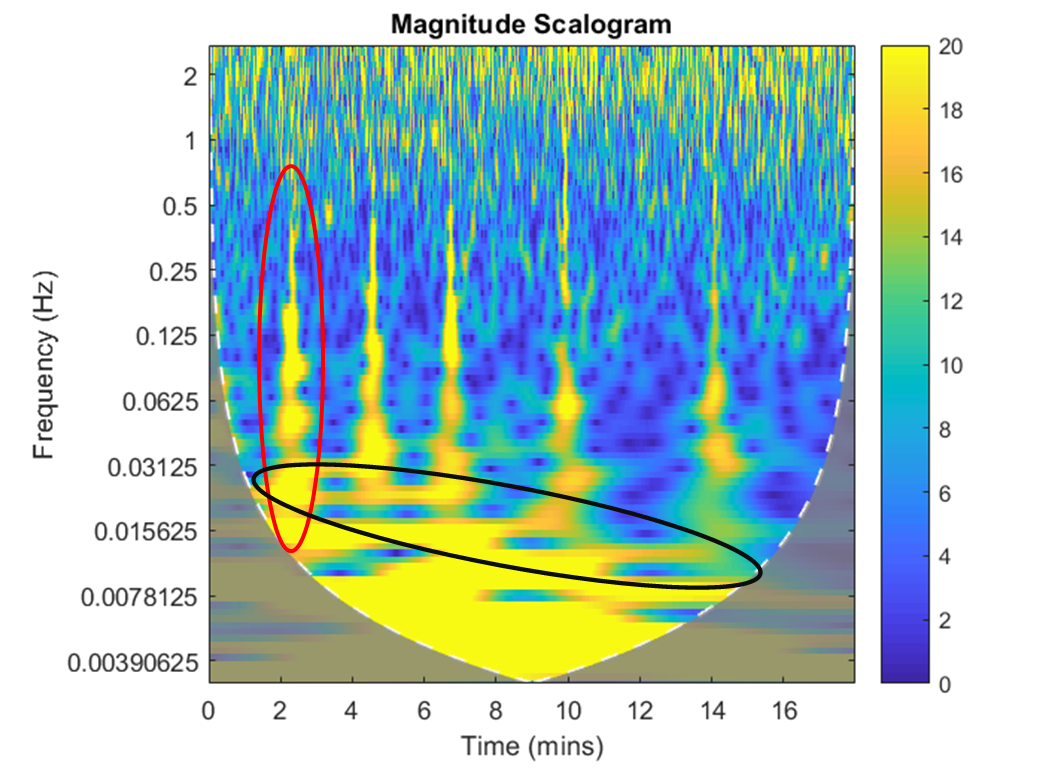
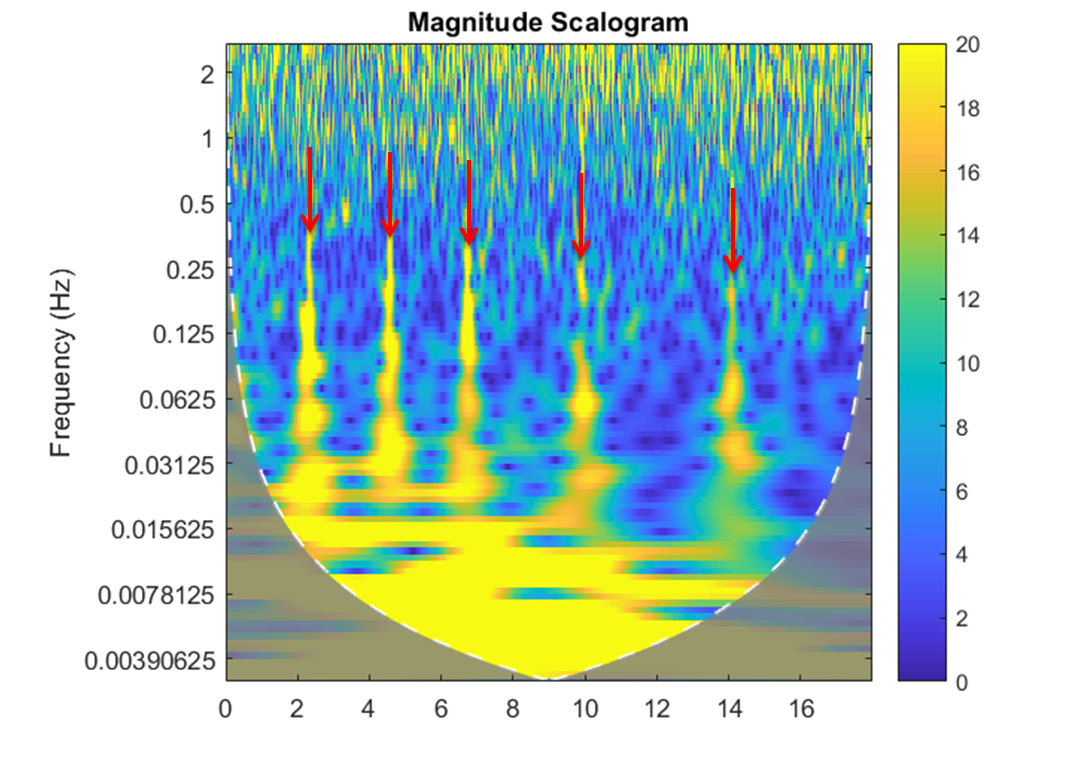
Changes

diff --git a/contents/DataAnalysis/Math.tex b/contents/DataAnalysis/Math.tex
@@ -1,5 +1,5 @@
 \section{Correction method}
-
+\label{sec:correction_method}
 With the knowledge of what might be the source of the artifacts seen in the temperature recording, it is chosen to find a way to compensate and correct the recording.
 Jumps occur in each region of interest at the same time and are shown by a high difference of the values between two frames. The amount of the observed jumps varies between 0 and 20 in the recordings. Furthermore the appearance of the jumps is non-periodic and in each recording at different time points and interval.\fxnote{show the one with no jumps also to see difference}
 \begin{figure}[H]
@@ -7,13 +7,13 @@ Jumps occur in each region of interest at the same time and are shown by a high 
 	\caption{The original data of region 15 in the uncuffed recording of subject 1 including 20 jumps.}
 	\label{fig:raw15}
 \end{figure}
-A continuous wavelet transform show the time frequency analysis content of the data for each region. Frequencies of higher magnitude will show up with brighter colors, which can also be seen on the magnitude colorbar for comparison of the magnitude in values. 
-The freqency of the scalograms vary from 2.7370 Hz to 0.0031 Hz. This means according to the litterature that bands of cardiac, repiratory, endothelial, myogenic and neurogenic is represented in the wavelet frequency span for the time frequency analysis. \cite{sagaidachnyi2014}
-\begin{figure}[H]
-	\includegraphics[width=0.7\textwidth]{figures/scalogram_uncorr}
-	\caption{Scalogram from the original data of region 15 in the uncuffed recording of subject 1, where high spike magnitudes can be seen induced by the jumps.}
-	\label{fig:scalogram_uncorr}
-\end{figure}
+%A continuous wavelet transform show the time frequency analysis content of the data for each region. Frequencies of higher magnitude will show up with brighter colors, which can also be seen on the magnitude colorbar for comparison of the magnitude in values. 
+%The freqency of the scalograms vary from 2.7370 Hz to 0.0031 Hz. This means according to the litterature that bands of cardiac, repiratory, endothelial, myogenic and neurogenic is represented in the wavelet frequency span for the time frequency analysis. \cite{sagaidachnyi2014}
+%\begin{figure}[H]
+%	\includegraphics[width=0.7\textwidth]{figures/scalogram_uncorr}
+%	\caption{Scalogram from the original data of region 15 in the uncuffed recording of subject 1, where high spike magnitudes can be seen induced by the jumps.}
+%	\label{fig:scalogram_uncorr}
+%\end{figure}
 From the raw data magnitude of the scalogram show high magnitude peaks exactly at the same time points where the jumps are occurring, which can be seen in figure \ref{fig:scalogram_uncorr}. Due to this falsifying of the magnitude, the results of the data analysis are also falsified.
 
 Additionally there is also a drift occurring within each interval between two jumps, which hampers the correct data analysis, this can also be seen in in figure \ref{scalogram_uncorr} as the frequency band with higher magnitude. To reduce the drift component and the jumps in the signals, the two following correction methods have been compiled, whereby the second one has been implemented.
@@ -45,12 +45,12 @@ As shown in figure \ref{fig:reg15} the new orientation straight fits the regress
 	\caption{Orientation line based on the data of the uncuffed recording of subject 1 in region 15 shown in red. Corrected signal of the same data in yellow.}
 	\label{fig:corr15}
 \end{figure}
-After the drift correction is added to the signal, the energy has been reduced at these areas induced from the jump which can be seen in figure \ref{fig:scalogram_corr}. 
-\begin{figure}[H]
-	\includegraphics[width=1\textwidth]{figures/scalogram_corr}
-	\caption{Scalogram from the corrected data of region 24 in the cuffed recording of subject 1, where a dampening of the high spike and drift magnitudes induced by the jumps has been achieved.}
-	\label{fig:scalogram_corr}
-\end{figure} 
+%After the drift correction is added to the signal, the energy has been reduced at these areas induced from the jump which can be seen in figure \ref{fig:scalogram_corr}. 
+%\begin{figure}[H]
+%	\includegraphics[width=1\textwidth]{figures/scalogram_corr}
+%	\caption{Scalogram from the corrected data of region 24 in the cuffed recording of subject 1, where a dampening of the high spike and drift magnitudes induced by the jumps has been achieved.}
+%	\label{fig:scalogram_corr}
+%\end{figure} 
 However, this method still has weak points. In figures \ref{fig:raw15} - \ref{fig:corr15} region of interest is located in the center of the thermal image. Regions which are located in the outer area of the thermal image show a few jumps after the correction which are bigger than before, illustrated on \figref{fig:corr23}. These extended jumps are due to the fact that the thermal image is more unstable in the outer areas than in the center, thus the pixel drift is increasing with increasing distance to the center. \fxnote{maybe mention that the regression is linear and will not fit all the data thereby}
 \begin{figure}[H]
 	\includegraphics[width=0.9\textwidth]{figures/corr23pfeile}

diff --git a/contents/DataAnalysis/Scalogram.tex b/contents/DataAnalysis/Scalogram.tex
@@ -1,34 +1,32 @@
-\section{Scalogram}
+\section{Scalogram interpretation}
 
-The scolargrams show the time frequency analysis content of the data for each region. Frequencies of higher magnitude will show up with brighter colors, which can also be seen on the magnitude colorbar for comparison of the magnitude in values.. 
-The freqency of the scalograms vary from 2.7370 Hz to 0.0031 Hz. This means according to the litteraturethat bands of cardiac, respiratory, endothelial, myogenic and neurogenic is represented in the wavelet frequency span for the time frequency analysis. [citation]
-The wavelet is shown before and after correction of the signal. 
+The scalorgrams show the time frequency analysis content of the data for each region. Frequencies of higher magnitude will show up with brighter colors, which can also be seen on the magnitude colorbar for comparison of the magnitude with related values.
+The frequency of the scalograms varies from 2.7370 Hz to 0.0031 Hz. This means according to the litterature, that bands of cardiac, respiratory, endothelial, myogenic and neurogenic is represented in the wavelet frequency span for the time frequency analysis. \cite{grayer2004}
 
-The scalogram in \figref{fig:uncuffed_sub3_roi8_corr} is representing the wavelet transformation of the raw signal without the correction. It is clear to see the frequency from the noise in the signal. 
-
-The noise components:
-\begin{itemize}
-	\item White noise
-	\item Drift between each interval
-	\item Jumps
-	\item Generel drift in the signal
-\end{itemize}
-
-The four noise components is disturbing the signal to make the cwt analysis valid because the noise is not constant in each recording.....
-....
-After the drift correction is added to the signal, the energy  has been reduced at this area induced from the jump. With this correction it should be more accurate to use the data for the statistics because. The signal should still be  preserved. 
+The scalogram in \figref{fig:uncuffed_sub3_roi8_corr} is representing the wavelet transformation of the raw signal of region eight from subject three.
 
 \begin{figure}[H]
 	\includegraphics[width=0.7\textwidth]{figures/uncuffed_sub3_roi8_uncorr}
-	\caption{Scalogram from the original data of region 15 in the uncuffed recording of subject 1, where high spike magnitudes can be seen induced by the jumps.}
+	\caption{Scalogram from the raw data of region eight in the uncuffed recording of subject 3, where high spike magnitudes can be seen induced by the jumps.}
 	\label{fig:scalogram_uncorr}
 \end{figure}
 
+Looking at the scalogram from the raw signal in \figref{fig:scalogram_uncorr} the jumps can easily be seen as the hight spikes which represents the jumps in the signal. Five jumps is indicated with the red arrows are present in the scalogram at timepoints around 2.3, 4.4, 6.6, 10 and 14.1 in the signal from the scalogram. The jumps in the same signal shown in the time domain shows jumps at the same timepoints \figref{...} \fxnote{change the figure in the correction method so it fits to the scalogram? else we will have to show it in this section}. As stated in \ref{sec:artifacts} the jumps are induced by the shutter to make autocorrections for the array in the thermal camera because the temperatures are drifting. Different noise components are represented in the signal. 
 
+The noise components of the raw signal can be sorted into three categories: 
+\begin{itemize}
+	\item White noise
+    \item Drift between each interval
+	\item Jumps
+%	\item Generel drift in the signal
+\end{itemize}
 
+White noise is containing all frequencies and is therefore present in all if the experimental data why this can be looked past because this is constant for every subject. \fxnote{a reference is needed here}. The noise components is disturbing the signal to make the cwt analysis valid because the noise is not constant in each recording.....
+....
+After the drift correction is added to the signal, the energy  has been reduced at this area induced from the jumps and drift. With this correction it should be more accurate to use the data for the statistics because. The signal should still be  preserved. 
 
 \begin{figure}[H]
-	\includegraphics[width=1\textwidth]{figures/uncuffed_sub3_roi8_corr}
-	\caption{Scalogram from the corrected data of region 24 in the cuffed recording of subject 1, where a dampening of the high spike and drift magnitudes induced by the jumps has been achieved.}
+	\includegraphics[width=0.7\textwidth]{figures/uncuffed_sub3_roi8_corr}
+	\caption{Scalogram from the corrected data of region 8 in the uncuffed recording of subject 3, where a dampening of the spikes and  induced by the jumps has been achieved.}
 	\label{fig:scalogram_corr}
 \end{figure} 

diff --git a/contents/DataAnalysis/ThermalDriftTheory.tex b/contents/DataAnalysis/ThermalDriftTheory.tex
@@ -1,6 +1,5 @@
 \section{Artifacts in temperature recording}
-
-
+\label{sec:artifacts}
 Because of the data seen in figure \figref{fig:Intensities}, a representation natural temperature variation is ruled out. Therefore it is assumed that the greater shifts is due to a technological limit.\fxnote{because of the systematic change in all regions} Because of this assumption, it is chosen to further investigate the buildup of thermal cameras and look into other papers, to see if they hat encountered same difficulties.
 
 \subsection{Thermal pixel drift}
